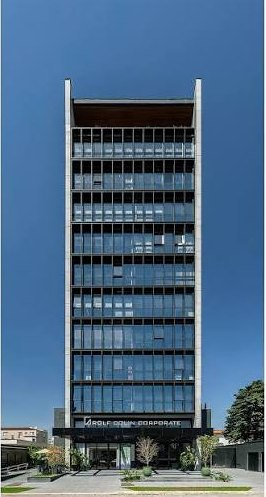
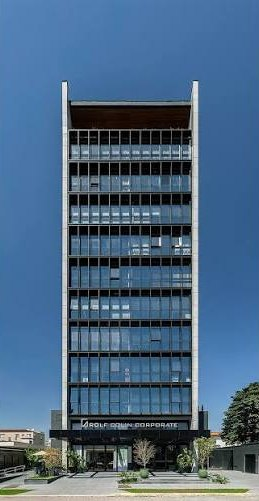
Rework office gallery: no captions, uncropped justified rows
Drop the room captions and lay the photos out in two justified rows:
each photo grows in proportion to its own aspect ratio, so every row
has one height and no photo is cropped. Phones keep the two-column
grid. Trim the white edge left on the building photo.

Claude-Session: https://claude.ai/code/session_018A4kpfqtyQhanFeENcdBby

Changed region(s): [[0.0, 0.0, 1.0, 1.0]]

diff --git a/one-page/index.html b/one-page/index.html
@@ -593,16 +593,24 @@
       color: var(--areia-escura);
     }
 
-    /* O ESPAÇO */
+    /* O ESPAÇO
+       Fileiras justificadas: cada foto cresce na proporção da própria
+       imagem (--r = largura / altura), então todas as fotos de uma
+       fileira ficam com a mesma altura e aparecem inteiras, sem corte. */
     .space-gallery {
       display: grid;
-      grid-template-columns: repeat(12, minmax(0, 1fr));
-      gap: 16px;
+      gap: 14px;
+    }
+    .space-row {
+      display: flex;
+      gap: 14px;
     }
     .space-photo {
       position: relative;
+      flex: var(--r) 1 0;
+      min-width: 0;
+      aspect-ratio: var(--r);
       overflow: hidden;
-      min-height: 0;
       background: var(--ardosia-escura);
     }
     .space-photo img {
@@ -613,35 +621,7 @@
       object-fit: cover;
       transition: transform .8s cubic-bezier(.2,.7,.2,1);
     }
-    .space-photo:hover img { transform: scale(1.035); }
-    .space-photo figcaption {
-      position: absolute;
-      left: 0;
-      right: 0;
-      bottom: 0;
-      padding: 42px 20px 16px;
-      background: linear-gradient(transparent, rgba(28, 39, 46, .8));
-      color: var(--papel);
-      font-size: 10px;
-      font-weight: 700;
-      letter-spacing: .16em;
-      text-transform: uppercase;
-    }
-    .space-recepcao {
-      grid-column: 4 / 13;
-      grid-row: 1;
-      aspect-ratio: 3 / 2;
-    }
-    .space-fachada { grid-column: 1 / 4; grid-row: 1; }
-    .space-atendimento {
-      grid-column: 1 / 7;
-      grid-row: 2;
-      aspect-ratio: 3 / 2;
-    }
-    .space-reunioes { grid-column: 7 / 10; grid-row: 2; }
-    .space-convivencia { grid-column: 10 / 13; grid-row: 2; }
-    .space-reunioes img { object-position: 70% center; }
-    .space-convivencia img { object-position: center 65%; }
+    .space-photo:hover img { transform: scale(1.03); }
 
     /* CONTATO */
     .contact-section { background: #e8e2de; }
@@ -839,25 +819,6 @@
       .service-list li { font-size: 13px; }
       .other-areas { grid-template-columns: 1fr; gap: 25px; margin-top: 58px; }
       .portrait { max-width: 420px; width: 100%; }
-      .space-gallery {
-        grid-template-columns: repeat(2, minmax(0, 1fr));
-        gap: 10px;
-      }
-      .space-gallery .space-photo {
-        grid-column: auto;
-        grid-row: auto;
-        aspect-ratio: 3 / 5;
-      }
-      .space-gallery .space-recepcao,
-      .space-gallery .space-atendimento {
-        grid-column: 1 / -1;
-        aspect-ratio: 3 / 2;
-      }
-      .space-gallery .space-convivencia {
-        grid-column: 1 / -1;
-        aspect-ratio: 4 / 5;
-      }
-      .space-photo figcaption { padding: 34px 14px 12px; }
       .method-copy > p, .contact-copy > p { max-width: 560px; }
     }
     @media (max-width: 560px) {
@@ -894,6 +855,18 @@
       .footer { padding-bottom: 90px; }
       .footer-top { align-items: flex-start; flex-direction: column; }
       .floating-contact { right: 15px; bottom: 15px; }
+      .space-gallery {
+        grid-template-columns: repeat(2, minmax(0, 1fr));
+        gap: 10px;
+      }
+      .space-row { display: contents; }
+      .space-photo { aspect-ratio: 3 / 5; }
+      .space-recepcao { order: 1; grid-column: 1 / -1; aspect-ratio: 4 / 3; }
+      .space-fachada { order: 2; }
+      .space-reunioes { order: 3; }
+      .space-atendimento { order: 4; grid-column: 1 / -1; aspect-ratio: 3 / 2; }
+      .space-convivencia { order: 5; grid-column: 1 / -1; aspect-ratio: 4 / 5; }
+      .space-convivencia img { object-position: center 65%; }
     }
     @media (prefers-reduced-motion: reduce) {
       html { scroll-behavior: auto; }
@@ -1271,45 +1244,37 @@
           </p>
         </div>
 
-        <!--
-          A ordem no HTML é a usada no celular.
-          No desktop, cada foto tem posição fixa na grade (.space-*).
-        -->
         <div class="space-gallery reveal">
-          <figure class="space-photo space-recepcao">
-            <img src="../assets/img/escritorio/recepcao.jpg"
-              alt="Recepção com sofá curvo branco diante de painel de madeira em ondas"
-              width="1440" height="1080" loading="lazy" decoding="async">
-            <figcaption>Recepção</figcaption>
-          </figure>
+          <div class="space-row">
+            <figure class="space-photo space-recepcao" style="--r: 1.3333">
+              <img src="../assets/img/escritorio/recepcao.jpg"
+                alt="Recepção com sofá curvo branco diante de painel de madeira em ondas"
+                width="1440" height="1080" loading="lazy" decoding="async">
+            </figure>
+            <figure class="space-photo space-fachada" style="--r: .517">
+              <img src="../assets/img/escritorio/fachada.jpg"
+                alt="Fachada envidraçada do edifício onde fica o escritório"
+                width="259" height="501" loading="lazy" decoding="async">
+            </figure>
+          </div>
 
-          <figure class="space-photo space-fachada">
-            <img src="../assets/img/escritorio/fachada.jpg"
-              alt="Fachada envidraçada do edifício onde fica o escritório"
-              width="266" height="497" loading="lazy" decoding="async">
-            <figcaption>Edifício</figcaption>
-          </figure>
-
-          <figure class="space-photo space-reunioes">
-            <img src="../assets/img/escritorio/sala-reunioes.jpg"
-              alt="Sala de reuniões com mesa redonda, painel ripado de madeira e janelas amplas"
-              width="1080" height="1440" loading="lazy" decoding="async">
-            <figcaption>Sala de reuniões</figcaption>
-          </figure>
-
-          <figure class="space-photo space-atendimento">
-            <img src="../assets/img/escritorio/sala-atendimento.jpg"
-              alt="Sala de atendimento com mesa de mármore, poltronas verdes e parede de madeira"
-              width="1440" height="960" loading="lazy" decoding="async">
-            <figcaption>Sala de atendimento</figcaption>
-          </figure>
-
-          <figure class="space-photo space-convivencia">
-            <img src="../assets/img/escritorio/convivencia.jpg"
-              alt="Área de convivência com sofá longo em branco e verde e luminárias com folhagens"
-              width="960" height="1280" loading="lazy" decoding="async">
-            <figcaption>Área de convivência</figcaption>
-          </figure>
+          <div class="space-row">
+            <figure class="space-photo space-atendimento" style="--r: 1.5">
+              <img src="../assets/img/escritorio/sala-atendimento.jpg"
+                alt="Sala de atendimento com mesa de mármore, poltronas verdes e parede de madeira"
+                width="1440" height="960" loading="lazy" decoding="async">
+            </figure>
+            <figure class="space-photo space-reunioes" style="--r: .75">
+              <img src="../assets/img/escritorio/sala-reunioes.jpg"
+                alt="Sala de reuniões com mesa redonda, painel ripado de madeira e janelas amplas"
+                width="1080" height="1440" loading="lazy" decoding="async">
+            </figure>
+            <figure class="space-photo space-convivencia" style="--r: .75">
+              <img src="../assets/img/escritorio/convivencia.jpg"
+                alt="Área de convivência com sofá longo em branco e verde e luminárias com folhagens"
+                width="960" height="1280" loading="lazy" decoding="async">
+            </figure>
+          </div>
         </div>
       </div>
     </section>
